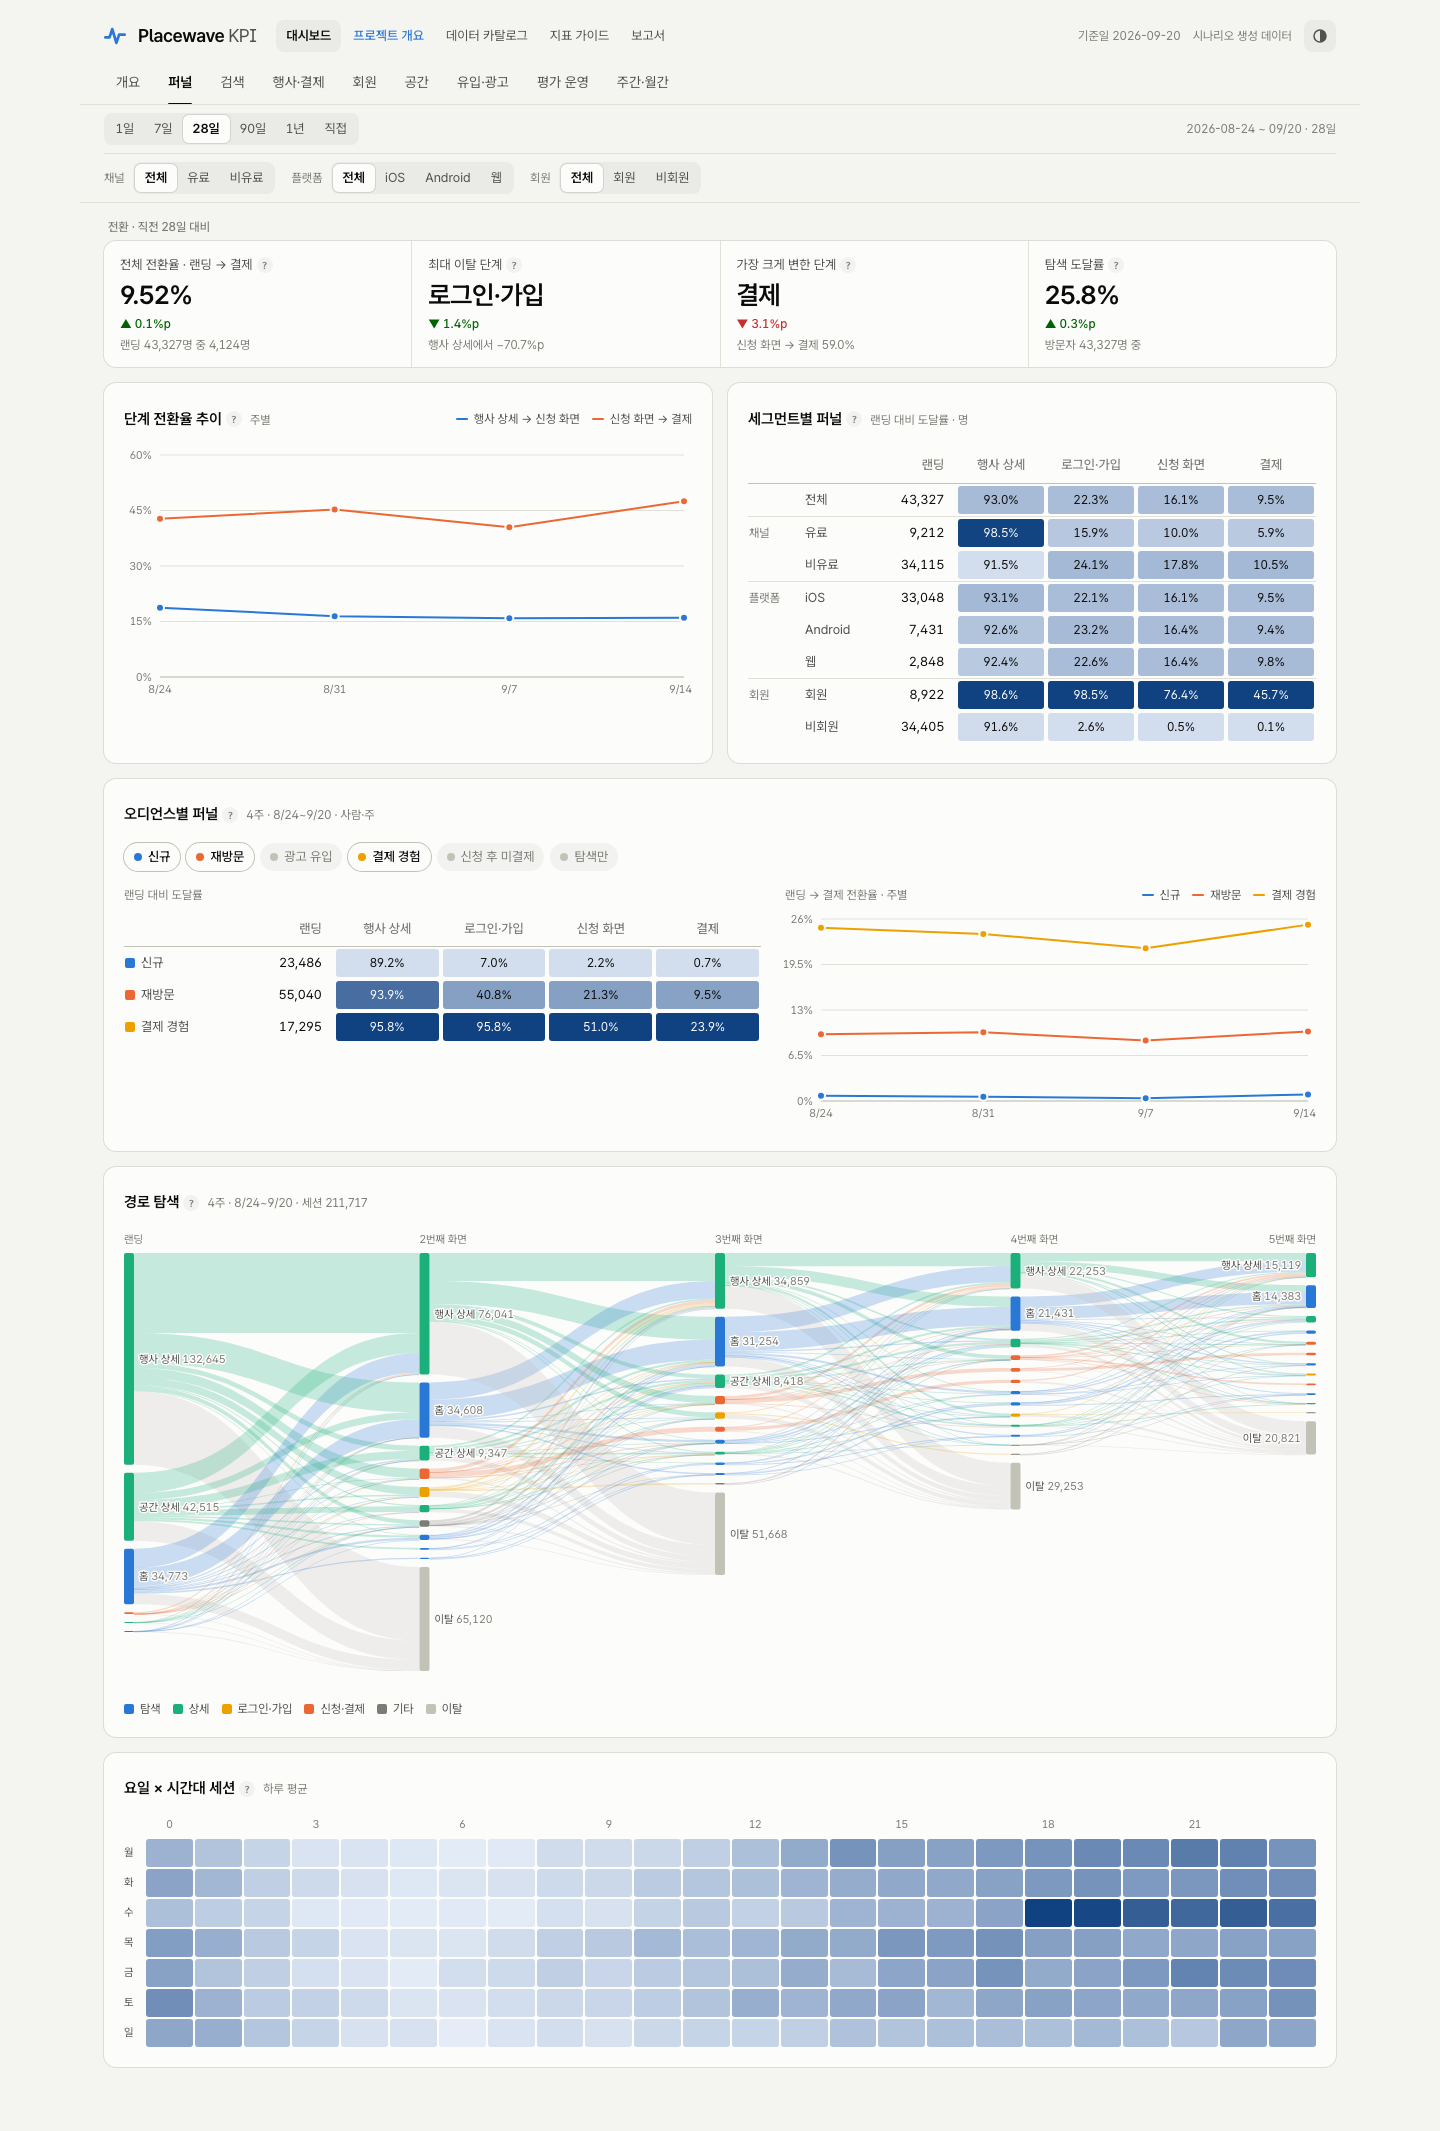
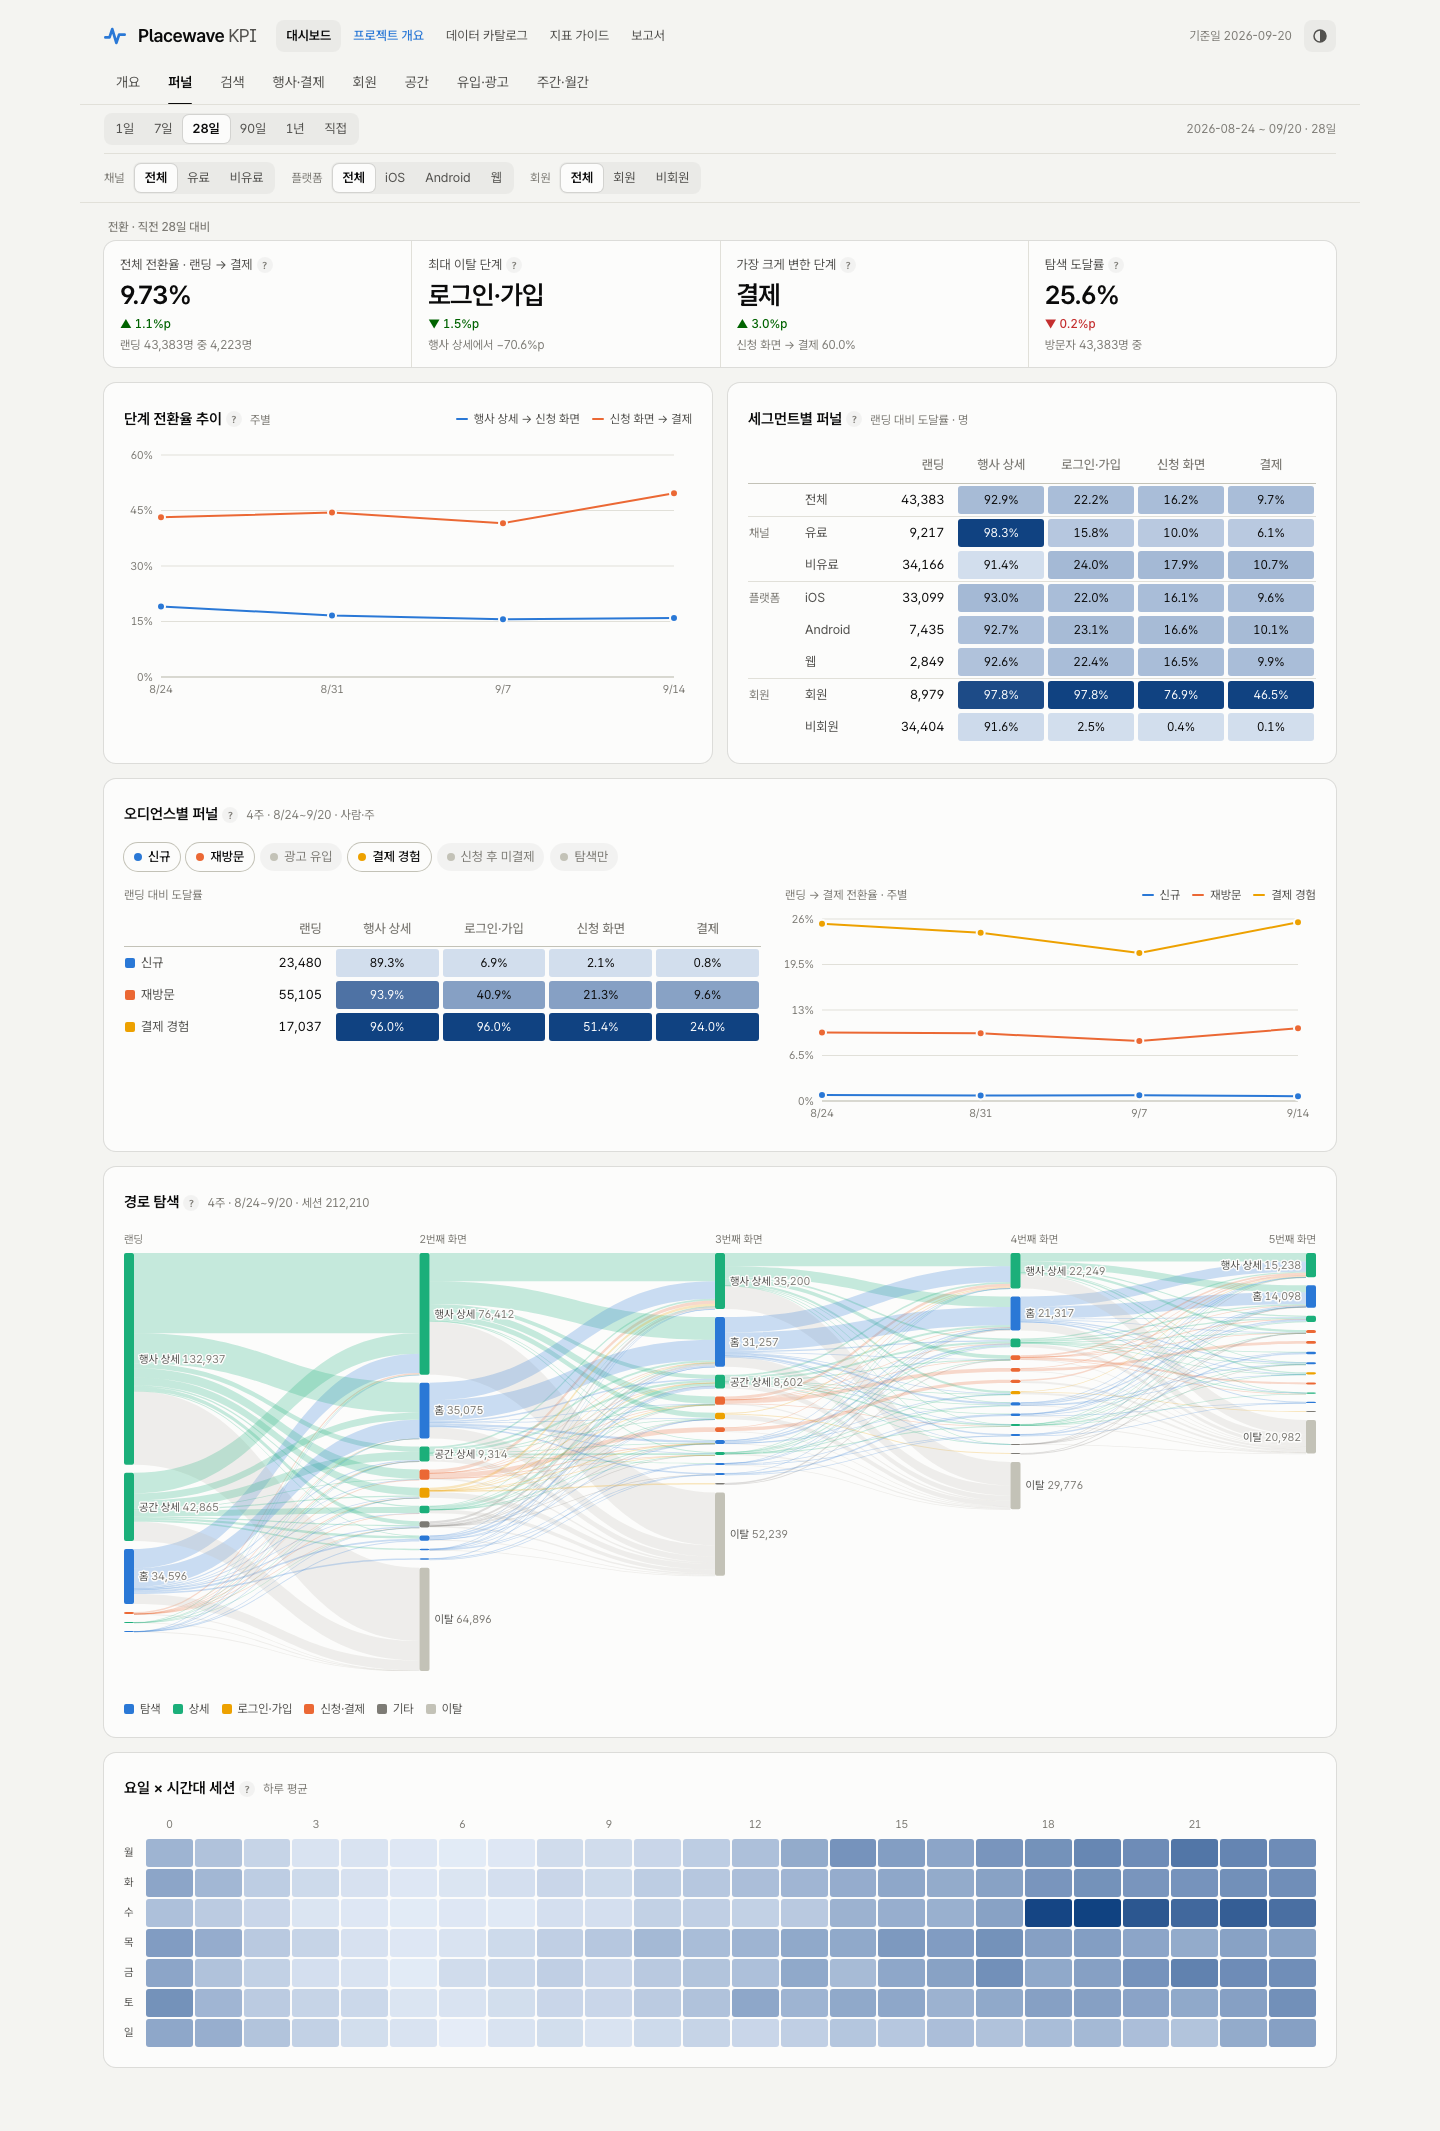
docs: README 캡처 재촬영(개요·검색·보고서·지표 가이드·라벨링 운영 등 10장), 차트 끝 라벨 여백, 비율 타일 %p 증감, 결과 보고 세그먼트 표 배치

diff --git a/dashboard/src/components/TrendCard.tsx b/dashboard/src/components/TrendCard.tsx
@@ -29,6 +29,8 @@ export interface FixedTile {
   format?: (v: number) => string
   /** 낮을수록 좋은 지표(해지 등)면 true — 증가를 나쁜 색으로 */
   lowerIsBetter?: boolean
+  /** 비율 지표면 true — 증감을 %p(차이)로 */
+  rate?: boolean
 }
 
 type Grain = 'auto' | 'hour' | 'day' | 'week' | 'month'
@@ -130,7 +132,7 @@ export function change(cur: number | null, prev: number | null): number | null {
   return cur == null || prev == null || prev === 0 ? null : cur / prev - 1
 }
 
-export function DeltaMark({ v, suffix, lowerIsBetter = false }: { v: number | null; suffix?: string; lowerIsBetter?: boolean }) {
+export function DeltaMark({ v, suffix, lowerIsBetter = false, points = false }: { v: number | null; suffix?: string; lowerIsBetter?: boolean; points?: boolean }) {
   if (v == null || !Number.isFinite(v)) return <span className="text-muted">—{suffix ? ` ${suffix}` : ''}</span>
   const flat = Math.abs(v) < 0.0005
   const color = flat ? 'var(--muted)' : v > 0 !== lowerIsBetter ? 'var(--good)' : 'var(--bad)'
@@ -138,7 +140,8 @@ export function DeltaMark({ v, suffix, lowerIsBetter = false }: { v: number | nu
     <span className="tnum whitespace-nowrap">
       <span style={{ color }} className="font-medium">
         {flat ? '' : v > 0 ? '▲ ' : '▼ '}
-        {(Math.abs(v) * 100).toFixed(1)}%
+        {(Math.abs(v) * 100).toFixed(1)}
+        {points ? '%p' : '%'}
       </span>
       {suffix && <span className="text-muted"> {suffix}</span>}
     </span>
@@ -466,7 +469,7 @@ export default function TrendCard<D extends Partial<Seg> & { kst_date: string },
               <ResponsiveContainer width="100%" height="100%">
                 <ComposedChart
                   data={series.points}
-                  margin={{ top: 8, right: 8, bottom: 0, left: 0 }}
+                  margin={{ top: 8, right: 18, bottom: 0, left: 0 }}
                   onMouseMove={(st) => {
                     hoverIdx.current = st?.activeTooltipIndex == null ? null : Number(st.activeTooltipIndex)
                   }}
@@ -602,7 +605,11 @@ export default function TrendCard<D extends Partial<Seg> & { kst_date: string },
               </div>
               {hasPrev && (
                 <div className="text-[11px]">
-                  <DeltaMark v={change(t.cur, t.prev)} lowerIsBetter={t.lowerIsBetter} />
+                  <DeltaMark
+                    v={t.rate ? (t.cur == null || t.prev == null ? null : t.cur - t.prev) : change(t.cur, t.prev)}
+                    lowerIsBetter={t.lowerIsBetter}
+                    points={t.rate}
+                  />
                 </div>
               )}
             </div>

diff --git a/dashboard/src/tabs/Overview.tsx b/dashboard/src/tabs/Overview.tsx
@@ -165,7 +165,7 @@ export default function Overview({ data, s, set, range }: TabProps) {
     { label: '파트너 공간', unit: '곳', cur: pEnd?.partner_total ?? null, prev: pPrevEnd?.partner_total ?? null },
     { label: '계약 해지', unit: '건', cur: pSum(range.from, range.to), prev: pSum(range.prevFrom, range.prevTo), lowerIsBetter: true },
     { label: '플랜 MRR', unit: '원', cur: pEnd?.mrr ?? null, prev: pPrevEnd?.mrr ?? null, format: won },
-    { label: '파트너 거래액 비중', unit: '', cur: share(rCur), prev: share(rPrev), format: (v) => pct(v) },
+    { label: '파트너 거래액 비중', unit: '', cur: share(rCur), prev: share(rPrev), format: (v) => pct(v), rate: true },
   ]
   const sCur = subSum(data.daily_subscription, range.from, range.to)
   const sPrev = subSum(data.daily_subscription, range.prevFrom, range.prevTo)

diff --git a/dashboard/src/reports/E1.tsx b/dashboard/src/reports/E1.tsx
@@ -253,7 +253,7 @@ export default function E1({ rows }: { rows: ExpRankerRequest[] }) {
         >
           <TimeChart data={daily} kind="line" series={series} yFormat={(v) => pct(v, 0)} valueFormat={(v) => pct(v)} decimals />
         </Card>
-        <div className="grid gap-4 lg:grid-cols-2">
+        <div className="flex flex-col gap-4">
           <Card title="의도 유형별 검색 성공률" meta="탐색적 · 보정 없음">
             <SideTable heads={['의도', '검색', '대조군', '실험군', '차이 (95% 구간)']} rows={seg('query_intent', QUERY_INTENT)} />
           </Card>

diff --git a/dashboard/src/components/charts.tsx b/dashboard/src/components/charts.tsx
@@ -109,7 +109,7 @@ export function TimeChart({
   return (
     <div style={{ height }} className="-ml-2">
       <ResponsiveContainer width="100%" height="100%">
-        <ComposedChart data={data} margin={{ top: 8, right: 8, bottom: 0, left: 0 }} barCategoryGap="22%">
+        <ComposedChart data={data} margin={{ top: 8, right: 18, bottom: 0, left: 0 }} barCategoryGap="22%">
           <CartesianGrid vertical={false} stroke="var(--line)" strokeWidth={1} />
           <XAxis
             dataKey={xKey}

diff --git a/README.md b/README.md
@@ -30,6 +30,8 @@
 | ![주간 탭: WAU·재방문 비중, 주간 방문자, 코호트 리텐션 히트맵, 주간 브리핑](docs/img/weekly_cohort.png) | ![프로젝트 개요: 가상 프로덕트, 핵심 퍼널 5화면, 데이터 흐름](docs/img/about.png) |
 | **데이터 카탈로그** | **공간** |
 | ![데이터 카탈로그: 층별 표 목록, 스키마·컬럼 설명, 마트 미리보기](docs/img/data.png) | ![공간 탭: 등록·파트너 공간, 서울 상권 분포 지도, 파트너 공간 표](docs/img/venues.png) |
+| **지표 가이드** | **라벨링 운영 (보고서)** |
+| ![지표 가이드: 북극성 지표와 축별 입력 지표·가드레일, 탭별 질문](docs/img/metrics.png) | ![라벨링 운영 보고서: 진척·생산성·품질 운영 대시보드, 배치 진척, 품질 추이, 평가자 산점도](docs/img/labeling_ops.png) |
 
 탭 8개(개요 / 퍼널 / 검색 / 행사·결제 / 회원 / 공간 / 유입·광고 / 주간·월간)의 모니터링 대시보드, 프로젝트 개요, 데이터 카탈로그, 지표 가이드, 검색 품질 개선을 실패 검색어 발견 → 라벨링 운영 → 평가 지침 개정 → A/B 설계서 → 진행 점검 → 결과 보고 → 9/1 재색인 회귀 7단계로 읽는 보고서 페이지. 라벨링 운영 대시보드와 실험 구간 표시는 대시보드 탭이 아니라 그 사업의 보고서 안에 둔다. 필터(기간·채널·플랫폼·회원)는 마트에 그 축이 있는 카드에만 붙이고, 상태는 전부 URL에 남는다. 탭별 구성과 산식은 [docs/dashboard.md](docs/dashboard.md).
 
